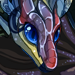
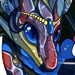
whole lotta updates
- Exuberant: renamed ExuberantRedux; updated images
- quicklinks:
  - belatedly removed Layes
  - noted new dragon names
  - linked Chorus release announcement
  - lil copyedits
- added BygoneLapidarist
- updated SehrPoltern's images before rehibernation bc it was Irking Me

diff --git a/dragons/index.html b/dragons/index.html
@@ -53,6 +53,7 @@ factoids: |-
 	- [aesthetic placeholder, idk how this would work yet] (manual)
 	- G1s +not-G1 gene showoff
 	- coli builds
+		- buildless lvl25s listed by text? plus element for easier reference
 -->
 
 <details><summary>random page factoids</summary>{{page.factoids|markdownify}}</details>

diff --git a/quicklinks.md b/quicklinks.md
@@ -97,7 +97,7 @@ gray = hibernating; ! = date obtained not noted
 	<tbody><tr><td>2017</td><td>??</td><td>??</td><td><s>Carnation</s></td></tr></tbody>
 	<tbody>
 		<tr><td rowspan="2">2018</td><td>03</td><td>16</td><td><s>Midst</s></td></tr>
-		<tr><td>11</td><td>19</td><td><s>Exuberant</s></td></tr>
+		<tr><td>11</td><td>19</td><td><s>ExuberantRedux</s></td></tr>
 	</tbody><tbody>
 		<tr><td rowspan="7">2019</td><td>03</td><td>21</td><td><s>Comet</s></td></tr>
 		<tr><td>05</td><td>10</td><td><s>Amaranta</s></td></tr>
@@ -124,12 +124,11 @@ gray = hibernating; ! = date obtained not noted
 		<tr><td>14</td><td><s>Zachariah</s></td></tr>
 		<tr><td>18</td><td><s>dashcon</s></td></tr>
 	</tbody><tbody>
-		<tr><td rowspan="11">2022</td><td rowspan="2">01</td><td>05</td><td><s>Asclepius</s></td></tr>
+		<tr><td rowspan="10">2022</td><td rowspan="2">01</td><td>05</td><td><s>Asclepius</s></td></tr>
 		<tr><td>09</td><td><s>Disappointtius</s></td></tr>
 		<tr><td>02</td><td>21</td><td><s>!Fred</s></td></tr>
-		<tr><td rowspan="3">03</td><td>07</td><td><s>Dmitri</s></td></tr>
+		<tr><td rowspan="2">03</td><td>07</td><td><s>Dmitri</s></td></tr>
 		<tr><td>10</td><td><s>Novak</s></td></tr>
-		<tr><td>27</td><td><s>Layes</s></td></tr>
 		<tr><td>04</td><td>24</td><td><s>InexplicableFern</s></td></tr>
 		<tr><td>05</td><td>18</td><td><s>Scylla</s></td></tr>
 		<tr><td>06</td><td>05</td><td><s>Ascher</s></td></tr>
@@ -154,16 +153,16 @@ gray = hibernating; ! = date obtained not noted
 	</tbody><tbody>
 		<tr><td rowspan="10">2025</td><td>01</td><td>01</td><td><s>Witchling</s></td></tr>
 		<tr><td>02</td><td>05</td><td><s>Frog</s></td></tr>
-		<tr><td rowspan="2">05</td><td>25</td><td>DarklandDisciple, <s>AdelineLightjaw, ElricAugury, PicaroCaravan</s>, [Vertex]</td></tr>
+		<tr><td rowspan="2">05</td><td>25</td><td>DarklandDisciple, <s>AdelineLightjaw, ElricAugury, PicaroCaravan,</s> MisalignedVertex</td></tr>
 		<tr><td>28</td><td><s>MarienSparksull</s></td></tr>
 		<tr><td>06</td><td>17</td><td><s>SehrPoltern</s></td></tr>
 		<tr><td rowspan="3">07</td><td>03</td><td>HajnalRemaster</td></tr>
 		<tr><td>08</td><td>MJFriesian, KrisShetlander</td></tr>
 		<tr><td>28</td><td>BharloweXaxely</td></tr>
-		<tr><td>09</td><td>29</td><td>Alien</td></tr>
+		<tr><td>09</td><td>29</td><td>AlienCataclysm</td></tr>
 		<tr><td>11</td><td>17</td><td>ArchibaldXI</td></tr>
 	</tbody><tbody>
-		<tr><td rowspan="6">2026</td><td rowspan="2">04</td><td>17</td><td>SwampsandRequiem, BygoneLapidarist</td></tr>
+		<tr><td rowspan="6">2026</td><td rowspan="2">04</td><td>17</td><td>SwampsandRequiem, <s>BygoneLapidarist</s></td></tr>
 		<tr><td>23</td><td>[Anais x Radijacija]</td></tr>
 		<tr><td>05</td><td>21</td><td>Zmaj</td></tr>
 		<tr><td>06</td><td>24</td><td>CinnadustShading</td></tr>
@@ -206,7 +205,7 @@ ty based [chronological update reference](https://www1.flightrising.com/forums/g
 	- have since acquired multiple abers
 - [2022 November: <i>Undertide</i>](https://www1.flightrising.com/forums/ann/3186365) - acquired clanbound scrolls but haven't used. they are collector items to me.
 	- I keep forgetting [Cygnus](https://www1.flightrising.com/dragon/57992771) is my token undertide....
-	- Vivace someday maybe???
+	- Vivace got breed-changed
 - [2023 March: <b>Aether</b>](https://www1.flightrising.com/forums/ann/3220508) - hatched [XxCaptnPlasmatog](https://www1.flightrising.com/dragon/84904477) & [another one](https://www1.flightrising.com/dragon/84904554), traded the latter for [FestiveFervor](https://www1.flightrising.com/dragon/84959048)
 	- im love moth lads.
 - [2023 July: <i>Sandsurge</i>](https://www1.flightrising.com/forums/ann/3256724) - no release freebies
@@ -222,12 +221,13 @@ ty based [chronological update reference](https://www1.flightrising.com/forums/g
 	- same indefinite limbo as dusthides
 - [2025 May: <i>Cirrus</i>](https://www1.flightrising.com/forums/ann/3416129) - no release freebies
 	- eventually acquired two wrestlehorses (see below)
-	- from this point on I started keeping fodder pairs, so I'll have at least 1 of every breed Around as soon as they hit fodder prices!
+	- started keeping fodder pairs from this point on; not noting fodder parents here
 - [2025 November: <i>Thorntail</i>](https://www1.flightrising.com/forums/ann/3444860) - hatched both eggs for [a random newbie](https://www1.flightrising.com/forums/raf/3447551)
 	- later breed-changed [BygoneLapidarist](https://www1.flightrising.com/dragon/109230624)
 - [2026 April: <b>Vigil</b>](https://www1.flightrising.com/forums/ann/3471732) - hatched [SwampsandRequiem](https://www1.flightrising.com/dragon/109230622) & [BygoneLapidarist](https://www1.flightrising.com/dragon/109230624)
 	- the latter did not stay a Vigil. the former, ?????
-- [TBA] 2026 August: Chorus - no release freebies
+- [2026 August: <i>Chorus</i>](https://www1.flightrising.com/forums/ann/3489170) - no release freebies
+	- shortly thereafter re-acquired [this old trainee](https://www1.flightrising.com/dragon/27401805), who will probably be Chorus'd
 
 ### dragos with frembs :>
 ordered by account ID
@@ -237,7 +237,7 @@ ordered by account ID
 - [Starbrite](https://www1.flightrising.com/clan-profile/325229):
 	- <b>[Singularity](https://www1.flightrising.com/dragon/80037268)</b>---bought & has lore based on parents'!
 	- <b>[MJFriesian](https://www1.flightrising.com/dragon/103878580)</b> & <b>[KrisShetlander](https://www1.flightrising.com/dragon/103878581)</b>---adopted, first Cirrus nest
-	- <b>[Alien](https://www1.flightrising.com/dragon/43525547)</b>---long-loved oldie, taken in after a glimpse
+	- <b>[AlienCataclysm](https://www1.flightrising.com/dragon/43525547)</b>---long-loved oldie, got a two-word rename
 - [Opalrose](https://www1.flightrising.com/clan-profile/335059): <b>[Asclepius](https://www1.flightrising.com/dragon/74944146)</b>---NotN hatch reject, snagged before exaltation
 - [PricklyGoose](https://www1.flightrising.com/clan-profile/342988): [<s>Poltergeist</s> <b>SehrPoltern</b>](https://www1.flightrising.com/dragon/50297105)---former perma
 - [Wasserbienchen](https://www1.flightrising.com/clan-profile/619562) & [Fabusol](https://www1.flightrising.com/clan-profile/624718): <b>[Scylla](https://www1.flightrising.com/dragon/78166107)</b> & <b>[Bokeh](https://www1.flightrising.com/dragon/78953375)</b>---both from Fabusol's lair, but the three of us had a small lore alliance/overlap that these two resulted from

diff --git a/TODO-TBD.md b/TODO-TBD.md
@@ -49,8 +49,6 @@ i don't think i can normalize All bios without nuking some of the special lil ex
 [8/18] do said templating after the default dragon page gets responsive'd. idk how the columns will work
 
 # 2026-07-26/31
-- change SehrPoltern's image when re-hibernating
-
 - do we want a dragons-farewell amnesty page?
 - maybe fandragons + farewell on the same not-public-facing page?? idk. records for the hell of it.
 
@@ -58,9 +56,7 @@ i don't think i can normalize All bios without nuking some of the special lil ex
 > KIERAN. THEY NERFED MY BOY….
 
 # 2026-08-26
-- hibernated BygoneLapidarist
-- renamed Alien -> AilenCataclysm
-- Exuberant: rename (SecondaryExuberance) + new image
+- Chorus -> Chord (gene), add Chorus to data
 
 
 
